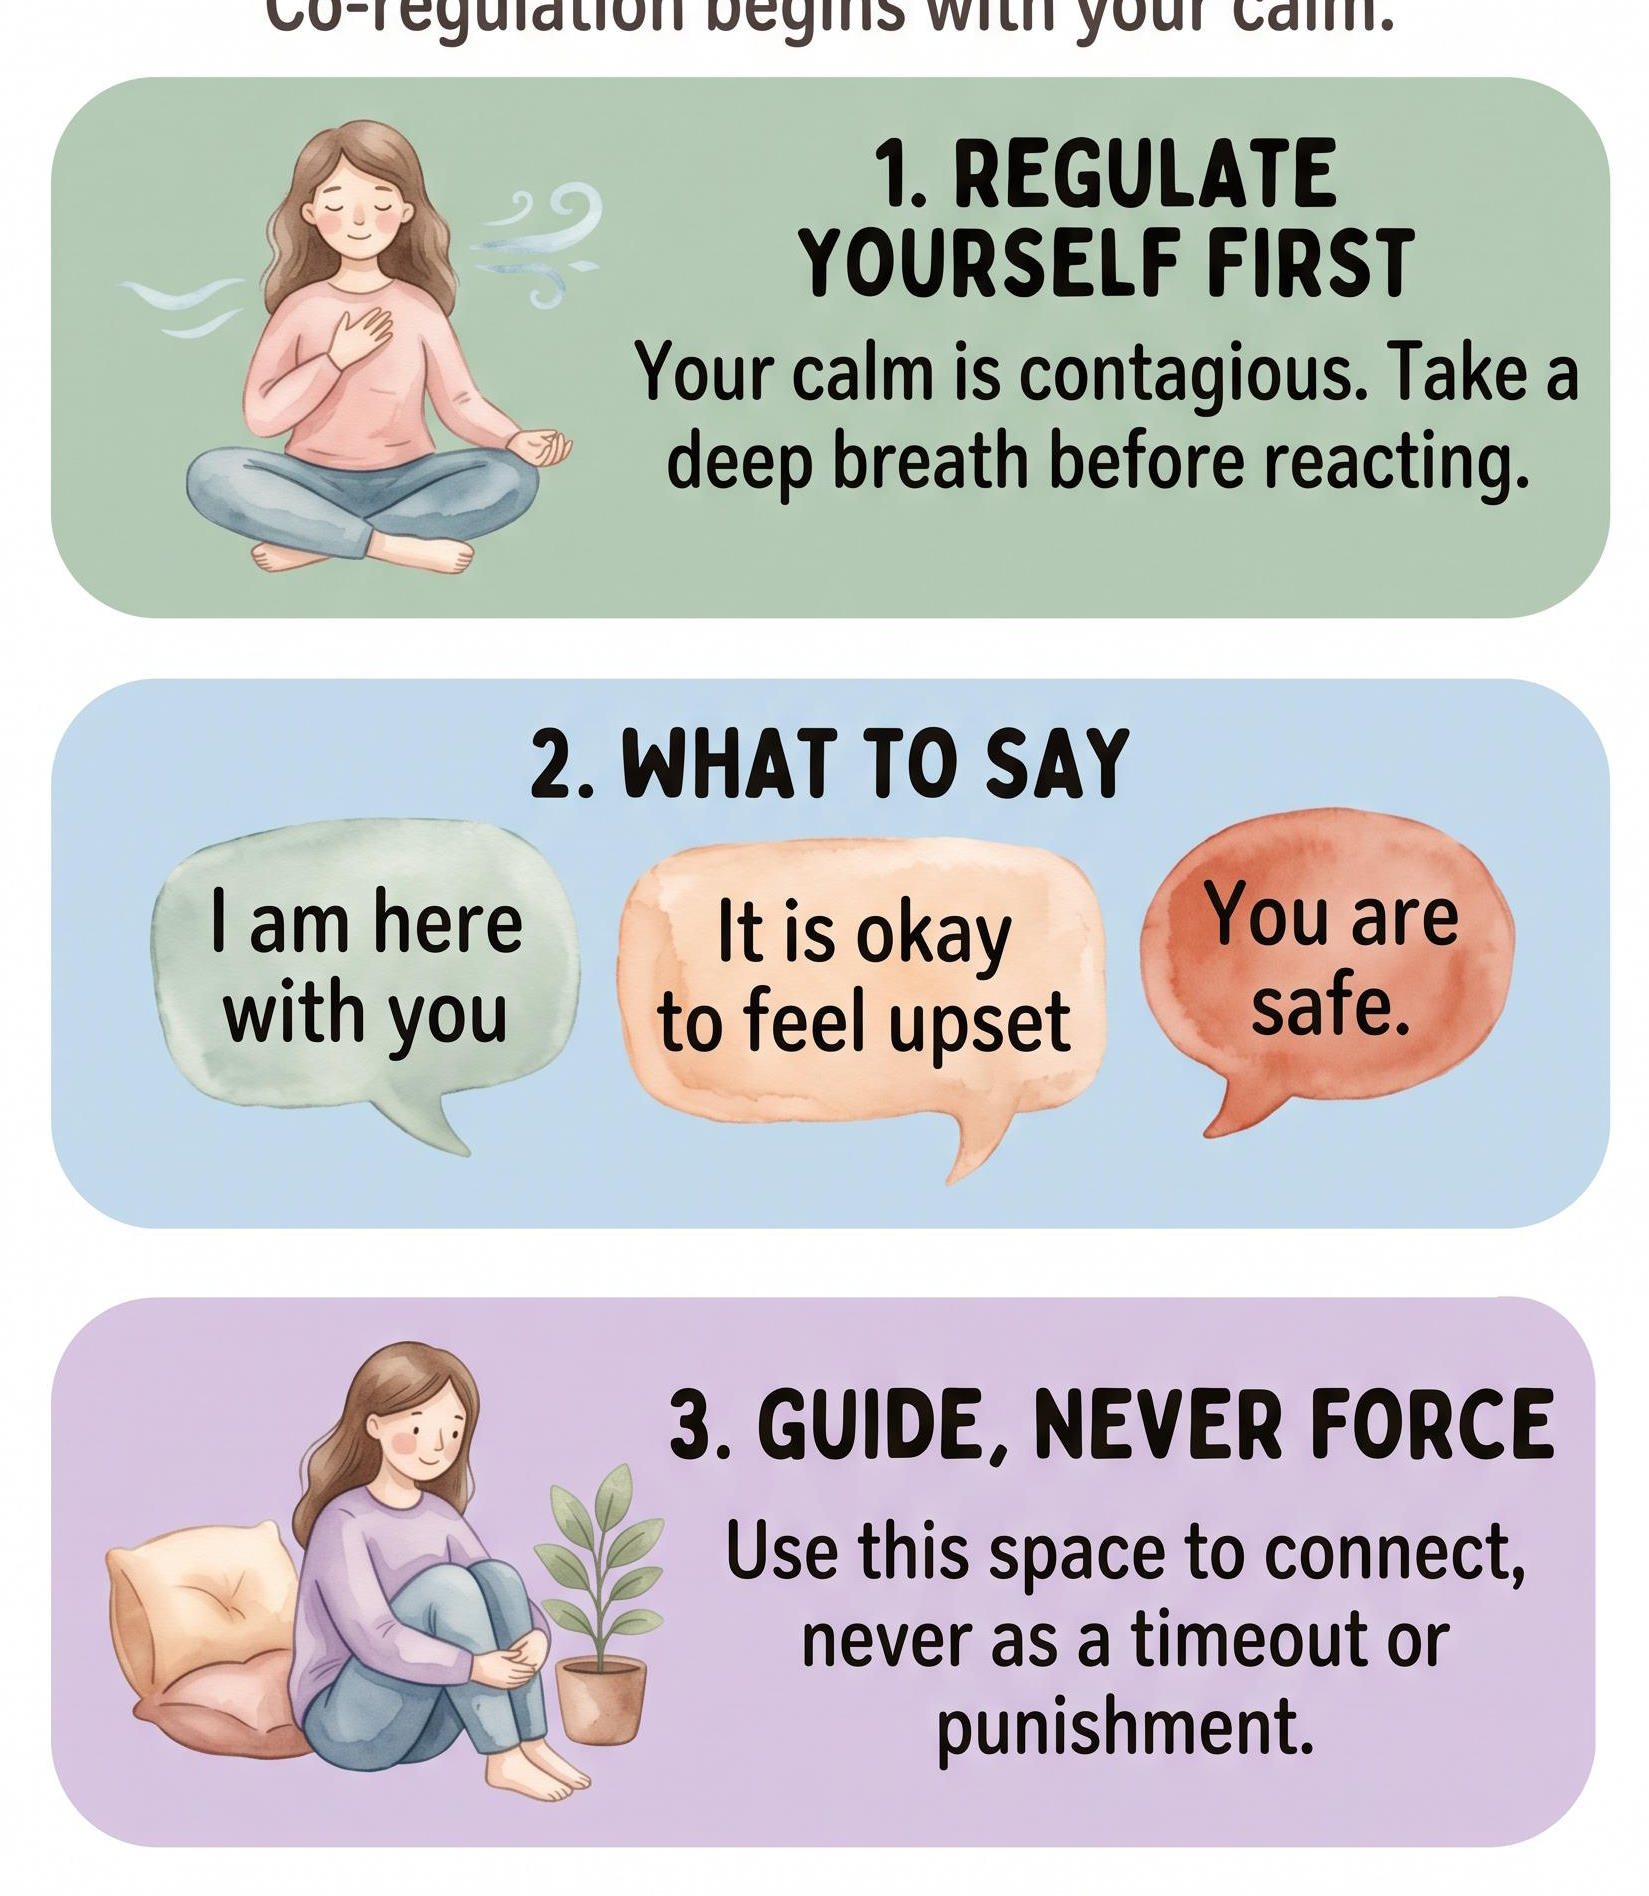
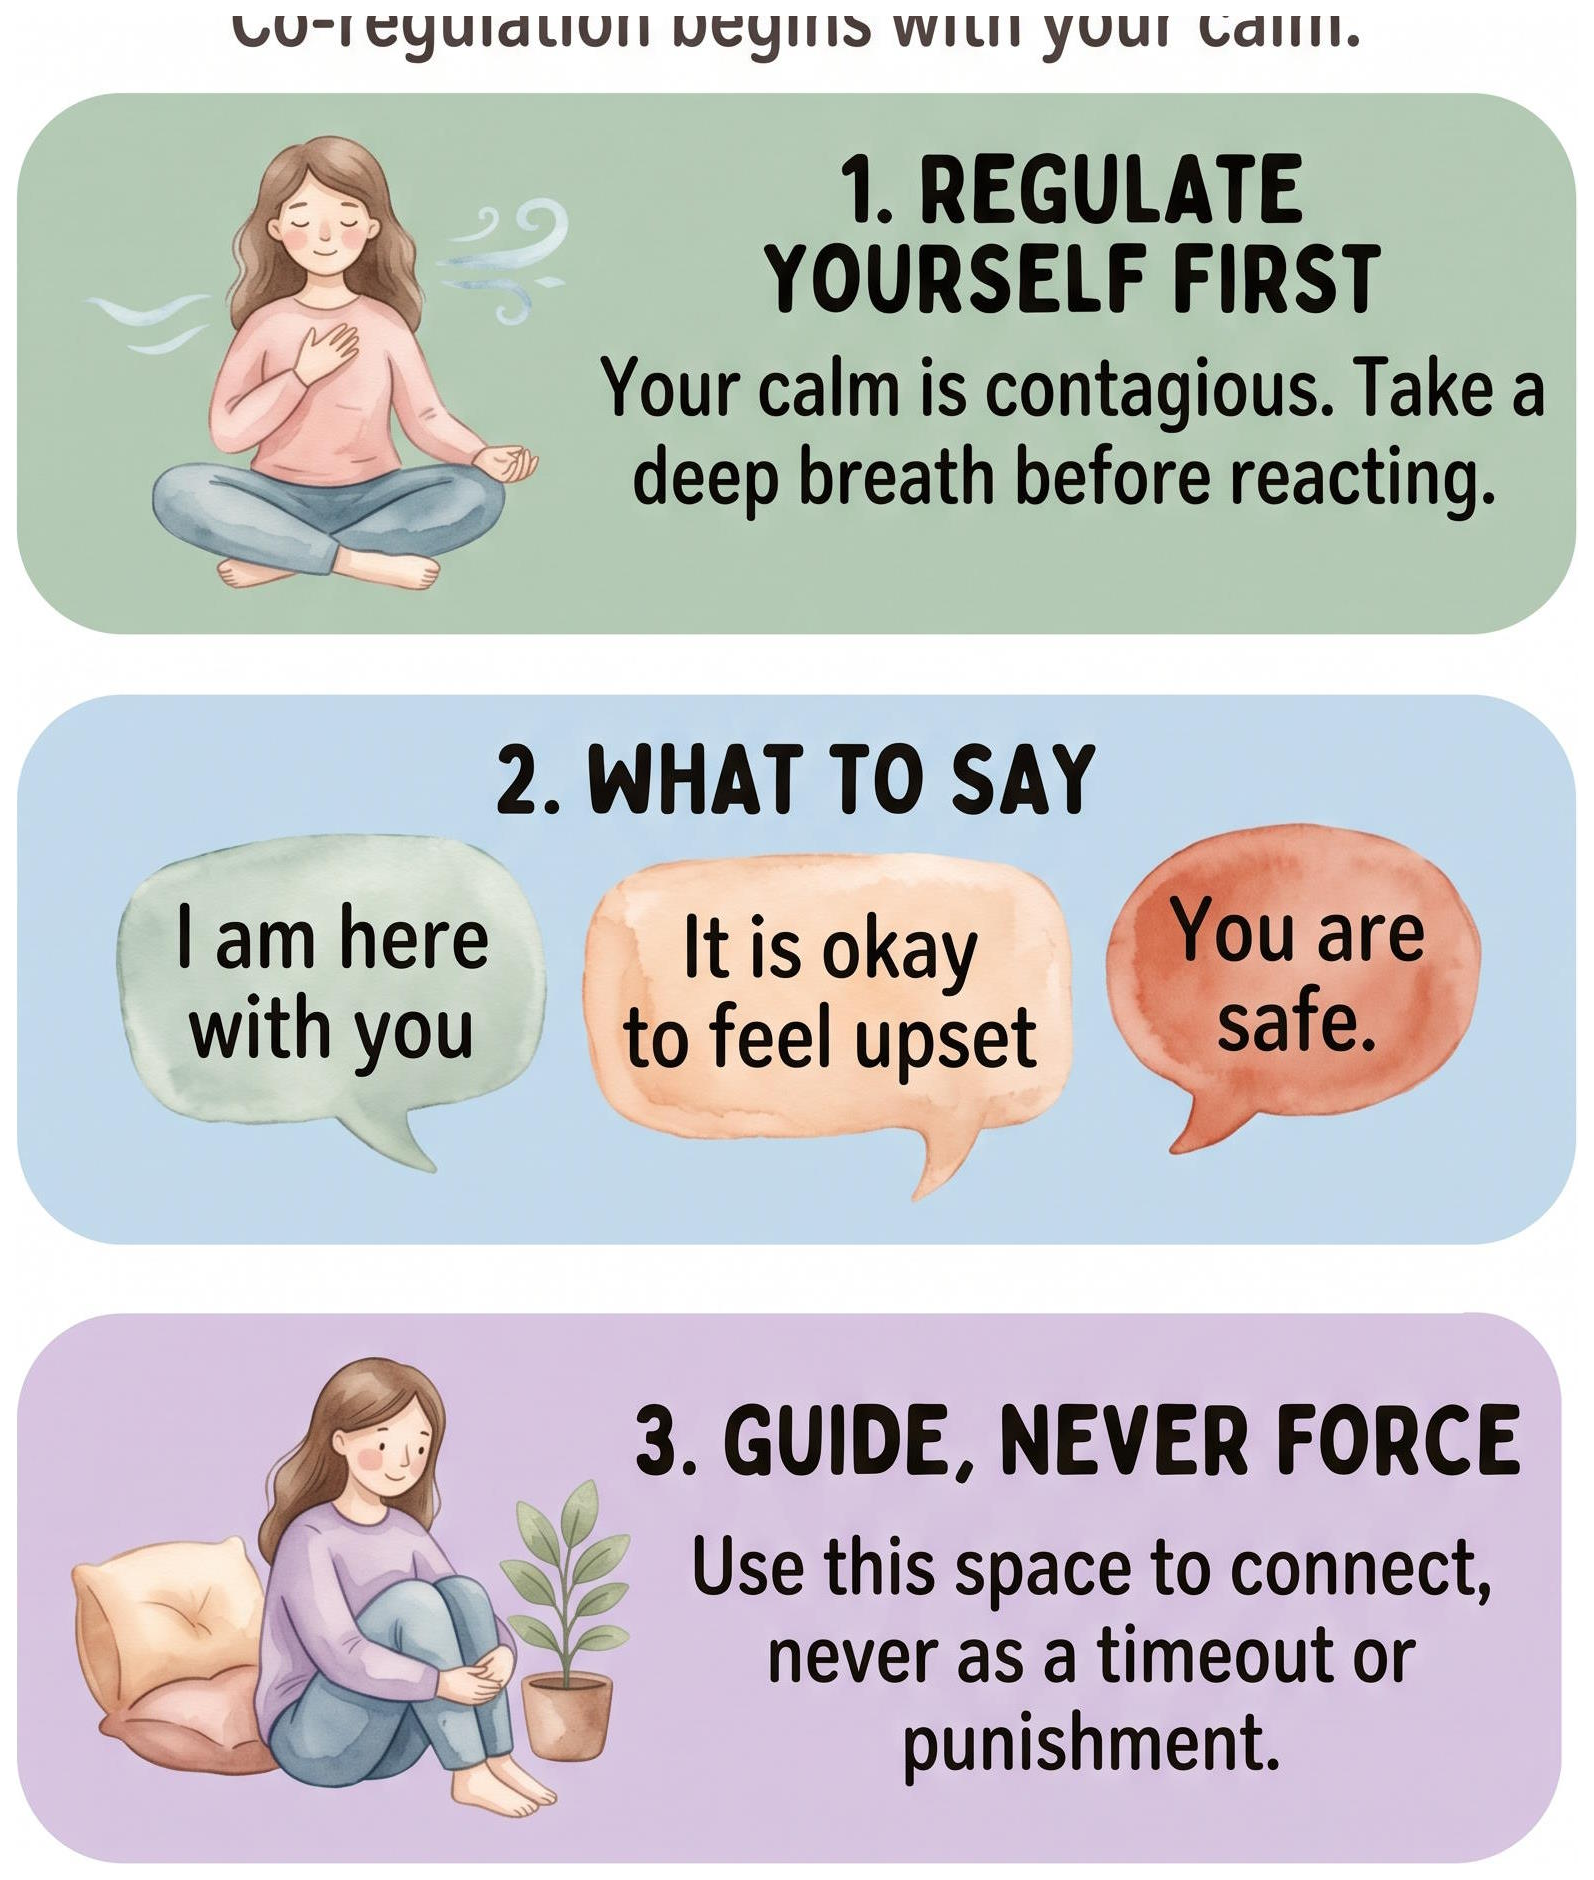
fix(create): maximize artwork display size and remove footer

diff --git a/create.html b/create.html
@@ -235,7 +235,7 @@
       border-radius: 16px;
       box-shadow: 0 18px 45px rgba(50, 60, 55, 0.15), 0 2px 8px rgba(0,0,0,0.06);
       border: 2px solid #E6DED4;
-      padding: 38px 30px 24px 30px;
+      padding: 26px 16px 16px 16px;
       display: flex;
       flex-direction: column;
       align-items: center;
@@ -261,14 +261,14 @@
       width: 100%;
       line-height: 1.15;
       word-break: break-word;
-      margin-bottom: 8px;
+      margin-bottom: 6px;
     }
 
     .poster-subtitle {
       font-family: var(--font-patrick);
       color: #4A3930;
       line-height: 1.25;
-      margin-bottom: 18px;
+      margin-bottom: 12px;
       word-break: break-word;
       transition: all 0.2s ease;
     }
@@ -278,7 +278,7 @@
       font-weight: 800;
       color: #38251B;
       letter-spacing: 0.04em;
-      margin-bottom: 14px;
+      margin-bottom: 10px;
       line-height: 1.2;
       word-break: break-word;
       transition: all 0.2s ease;
@@ -290,17 +290,20 @@
       display: flex;
       align-items: center;
       justify-content: center;
-      min-height: 200px;
+      min-height: 0;
       position: relative;
-      margin: 4px 0 0 0;
+      margin: 2px 0 0 0;
+      padding: 0;
       overflow: hidden;
     }
 
     .poster-image {
-      max-width: 100%;
-      max-height: 560px;
+      width: 100%;
+      max-width: 98%;
+      height: 100%;
+      max-height: 100%;
       object-fit: contain;
-      filter: drop-shadow(0 4px 12px rgba(0,0,0,0.06));
+      filter: drop-shadow(0 4px 16px rgba(0,0,0,0.06));
       transition: all 0.2s ease;
     }
 
@@ -559,9 +562,9 @@
 
         <div class="range-group" style="margin-top: 6px;">
           <div class="range-header">
-            <span>Image Size: <span id="labelImgSize">440px</span></span>
+            <span>Artwork Size / Scale: <span id="labelImgSize">98%</span></span>
           </div>
-          <input type="range" id="rangeImgSize" min="150" max="600" value="440" oninput="updatePoster()" />
+          <input type="range" id="rangeImgSize" min="60" max="100" value="98" oninput="updatePoster()" />
         </div>
       </div>
 
@@ -633,7 +636,7 @@
         titleSize: 48,
         subSize: 24,
         headSize: 28,
-        imgSize: 480,
+        imgScale: 98,
         bodySrc: '/assets/posters/body/breathe-body.png',
         fullSrc: '/assets/posters/breathe with me.jpg'
       },
@@ -646,7 +649,7 @@
         titleSize: 44,
         subSize: 24,
         headSize: 24,
-        imgSize: 480,
+        imgScale: 98,
         bodySrc: '/assets/posters/body/feelings-body.png',
         fullSrc: '/assets/posters/how am i feeling full.png'
       },
@@ -659,7 +662,7 @@
         titleSize: 44,
         subSize: 22,
         headSize: 24,
-        imgSize: 480,
+        imgScale: 98,
         bodySrc: '/assets/posters/body/toolbox-body.png',
         fullSrc: '/assets/posters/calm down toolbox.jpg'
       },
@@ -672,7 +675,7 @@
         titleSize: 48,
         subSize: 22,
         headSize: 24,
-        imgSize: 480,
+        imgScale: 98,
         bodySrc: '/assets/posters/body/ground-body.png',
         fullSrc: '/assets/posters/find your ground.jpg'
       },
@@ -685,7 +688,7 @@
         titleSize: 44,
         subSize: 22,
         headSize: 24,
-        imgSize: 480,
+        imgScale: 98,
         bodySrc: '/assets/posters/body/needs-body.png',
         fullSrc: '/assets/posters/what do i need.jpg'
       },
@@ -698,7 +701,7 @@
         titleSize: 42,
         subSize: 22,
         headSize: 24,
-        imgSize: 480,
+        imgScale: 98,
         bodySrc: '/assets/posters/body/caregiver-body.png',
         fullSrc: '/assets/posters/caregiver guide.jpg'
       }
@@ -873,7 +876,7 @@
         document.getElementById('rangeTitleSize').value = tmpl.titleSize;
         document.getElementById('rangeSubSize').value = tmpl.subSize;
         document.getElementById('rangeHeadSize').value = tmpl.headSize;
-        document.getElementById('rangeImgSize').value = tmpl.imgSize;
+        document.getElementById('rangeImgSize').value = tmpl.imgScale || 98;
 
         currentImageSrc = posterMode === 'original' ? tmpl.fullSrc : tmpl.bodySrc;
       }
@@ -958,15 +961,21 @@
 
       // 4. Image / Body Artwork
       const imgEl = document.getElementById('posterImage');
-      const imgSize = document.getElementById('rangeImgSize').value;
-      document.getElementById('labelImgSize').innerText = `${imgSize}px`;
+      const imgScale = document.getElementById('rangeImgSize').value || 98;
+      document.getElementById('labelImgSize').innerText = `${imgScale}%`;
 
       if (currentImageSrc) {
         imgEl.src = currentImageSrc;
         if (posterMode === 'original') {
+          imgEl.style.width = '100%';
           imgEl.style.maxHeight = '100%';
+          imgEl.style.height = '100%';
         } else {
-          imgEl.style.maxHeight = `${imgSize}px`;
+          imgEl.style.width = `${imgScale}%`;
+          imgEl.style.maxWidth = '98%';
+          imgEl.style.maxHeight = '100%';
+          imgEl.style.height = '100%';
+          imgEl.style.objectFit = 'contain';
         }
         imgEl.style.display = 'block';
       } else {
@@ -1004,7 +1013,7 @@
       ctx.fillStyle = document.getElementById('selectPaperBg').value;
       ctx.fillRect(0, 0, w, h);
 
-      let curY = 36;
+      let curY = 32;
 
       // 2. Draw Title (Line-by-line)
       const rawTitleInput = document.getElementById('inputTitle').value;
@@ -1048,7 +1057,7 @@
           curY += titleSize * 1.15;
         });
 
-        curY += 8;
+        curY += 6;
       }
 
       // 3. Draw Subtitle
@@ -1067,7 +1076,7 @@
             curY += subSize * 1.35;
           }
         });
-        curY += 10;
+        curY += 8;
       }
 
       // 4. Draw Section Heading
@@ -1086,20 +1095,27 @@
             curY += headSize * 1.35;
           }
         });
-        curY += 10;
+        curY += 8;
       }
 
-      // 5. Draw Image / Artwork
+      // 5. Draw Image / Artwork (Takes full remaining space)
       if (img && img.style.display !== 'none' && img.complete) {
-        const imgSize = Number(document.getElementById('rangeImgSize').value);
+        const scaleVal = (Number(document.getElementById('rangeImgSize').value) || 98) / 100;
+        const availableW = w * 0.96 * scaleVal;
+        const availableH = h - curY - 20;
         const aspect = img.naturalWidth / img.naturalHeight || 1;
-        let targetH = Math.min(imgSize, h - curY - 24);
-        let targetW = targetH * aspect;
-        if (targetW > w - 40) {
-          targetW = w - 40;
-          targetH = targetW / aspect;
+
+        let targetW = availableW;
+        let targetH = targetW / aspect;
+
+        if (targetH > availableH) {
+          targetH = availableH;
+          targetW = targetH * aspect;
         }
-        ctx.drawImage(img, (w - targetW) / 2, curY + 6, targetW, targetH);
+
+        const imgX = (w - targetW) / 2;
+        const imgY = curY + (availableH - targetH) / 2;
+        ctx.drawImage(img, imgX, imgY, targetW, targetH);
       }
 
       downloadCanvas(canvas, `${currentTemplateKey}_custom_poster.png`);
@@ -1146,7 +1162,7 @@
         return;
       }
 
-      let currentY = 80;
+      let currentY = 70;
       let colorIdx = 0;
       let titleXml = '';
 
@@ -1180,7 +1196,7 @@
           currentY += titleSize * 1.15;
         });
 
-        currentY += 12;
+        currentY += 8;
       }
 
       let subXml = '';
@@ -1194,7 +1210,7 @@
             currentY += subSize * 1.35;
           }
         });
-        currentY += 14;
+        currentY += 10;
       }
 
       let headXml = '';
@@ -1208,15 +1224,31 @@
             currentY += headSize * 1.35;
           }
         });
-        currentY += 14;
+        currentY += 10;
       }
 
       let imgXml = '';
       if (currentImageSrc) {
-        const imgSize = Number(document.getElementById('rangeImgSize').value);
-        const targetH = Math.min(imgSize * 1.5, height - currentY - 60);
-        const targetW = width - 80;
-        imgXml = `<image href="${currentImageSrc}" x="${(width - targetW) / 2}" y="${currentY}" width="${targetW}" height="${targetH}" preserveAspectRatio="xMidYMid meet" />`;
+        const scaleVal = (Number(document.getElementById('rangeImgSize').value) || 98) / 100;
+        const availableW = width * 0.96 * scaleVal;
+        const availableH = height - currentY - 20;
+
+        const imgEl = document.getElementById('posterImage');
+        const aspect = (imgEl && imgEl.naturalWidth && imgEl.naturalHeight)
+          ? (imgEl.naturalWidth / imgEl.naturalHeight)
+          : (1463 / 1871);
+
+        let targetW = availableW;
+        let targetH = targetW / aspect;
+        if (targetH > availableH) {
+          targetH = availableH;
+          targetW = targetH * aspect;
+        }
+
+        const imgX = (width - targetW) / 2;
+        const imgY = currentY + (availableH - targetH) / 2;
+
+        imgXml = `<image href="${currentImageSrc}" x="${imgX}" y="${imgY}" width="${targetW}" height="${targetH}" preserveAspectRatio="xMidYMid meet" />`;
       }
 
       const svgContent = `<?xml version="1.0" encoding="UTF-8"?>
